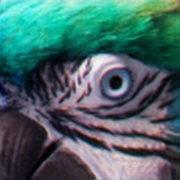
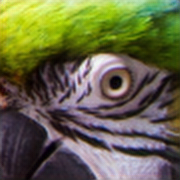
sync

diff --git a/Utils.py b/Utils.py
@@ -152,8 +152,10 @@ if __name__ == '__main__':
     # train_HR: min_height:648, min_width:2040
     # valid_HR: min_height:816, min_width:2040
     # test_HR: min_height:1068, min_width:2040
-    check_img_size_min("Datasets/train/HR")
-    check_img_size_min("Datasets/valid/HR")
-    check_img_size_min("Datasets/test/HR")
-
+    # check_img_size_min("Datasets/train/HR")
+    # check_img_size_min("Datasets/valid/HR")
+    # check_img_size_min("Datasets/test/HR")
+    img = cv2.imread("Datasets/test/HR/0886.png")
+    img = img_custom_crop(img, 180, 180, 300, 600)
+    cv2.imwrite("HR_crop_test.png", img)
 

diff --git a/Saved_generator_model.py b/Saved_generator_model.py
@@ -58,4 +58,4 @@ if __name__ == '__main__':
     SR_img = SR_img.squeeze(0)
     SR_img = SR_img.transpose(1,2,0)
     print(SR_img.shape)
-    cv2.imwrite("testing2.png", SR_img)
+    cv2.imwrite("testing2.png", cv2.cvtColor(SR_img, cv2.COLOR_RGB2BGR))
